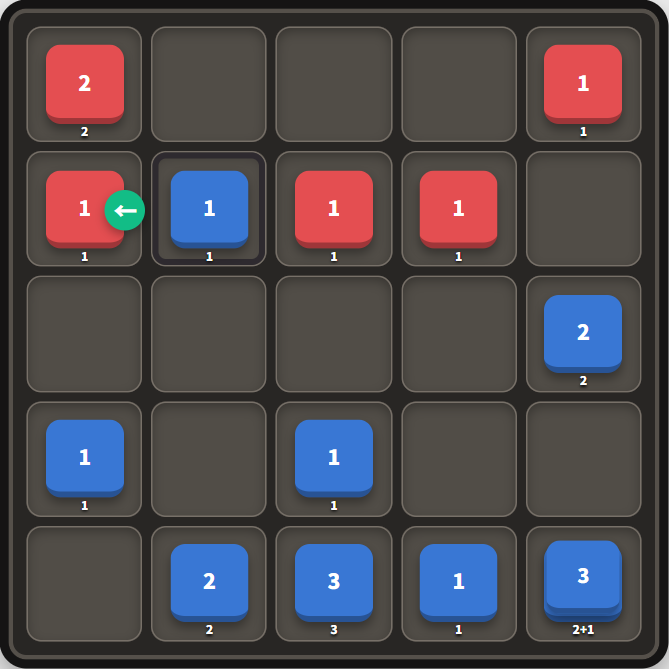
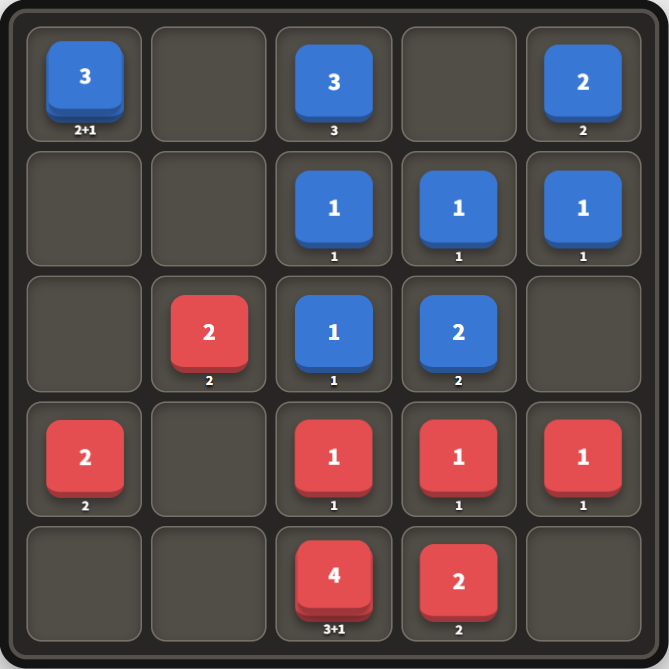
fix: refine multi-step game controls

diff --git a/assets/games.js b/assets/games.js
@@ -241,14 +241,14 @@
   games.santorini = {
     title: '聖托里尼 Santorini',
     credit: '設計者：Gordon Hamilton，出版社：Roxley Games',
-    firstName: '藍方', secondName: '橘方',
+    firstName: '紅方', secondName: '藍方',
     designer: 'Gordon Hamilton。', publisher: 'Roxley Games；本頁採用不含神力的基本規則。',
     intro: '雙方各控制兩名工人，每回合移動一名工人並在相鄰格建築。登上第三層或封鎖對手即可獲勝。',
     openings: [{ value: 'standard', label: '標準空盤' }], rolloutLimit: 70,
     animationDuration(action) { return action.type === 'place' ? 220 : action.previewed ? 240 : 420; },
     animationOptions() { return { spring: true }; },
     rules: [
-      { title: '初始設置', html: '<p>藍方先放置兩名工人，接著橘方放置兩名工人，再由藍方開始第一回合。</p>' },
+      { title: '初始設置', html: '<p>紅方先放置兩名工人，接著藍方放置兩名工人，再由紅方開始第一回合。</p>' },
       { title: '完整回合', html: '<ol><li>選自己一名工人。</li><li>往周圍八格移動一格，最多向上爬一層。</li><li>在移動後的工人周圍八格建築一層。</li></ol>' },
       { title: '勝利', html: '<p>工人移動到第三層立即勝利；或完成建築後使對手沒有任何合法移動，也立即勝利。</p>' }
     ],
@@ -294,7 +294,7 @@
     },
     outcome(state) { return state.winner; },
     describe(action, before) {
-      const actor = before.turn === 'first' ? '藍方' : '橘方';
+      const actor = before.turn === 'first' ? '紅方' : '藍方';
       if (action.type === 'place') return `${actor}將工人放在${posText(action)}。`;
       return `${actor}移動工人到${posText(action.move)}${action.build ? `，並在${posText(action.build)}建築` : '並登上第三層'}。`;
     },
@@ -310,7 +310,7 @@
         const height = state.board[r][c];
         const worker = visualWorkerAt({ r, c });
         const building = height ? `<span class="santorini-building">${Array.from({ length: height }, (_, level) => `<i class="santorini-level ${level === 3 ? 'dome' : ''}" data-anim-id="santorini-building-${r}-${c}-${level}" style="--level:${level}"></i>`).join('')}</span>` : '';
-        const piece = worker ? `<span class="piece worker santorini-worker ${worker.owner}" data-anim-id="${worker.id}"><span class="worker-head"></span><span class="worker-body"></span></span>` : '';
+        const piece = worker ? `<span class="piece worker santorini-worker ${worker.owner}" data-anim-id="${worker.id}" style="--height:${height}"><span class="worker-head"></span><span class="worker-body"></span></span>` : '';
         let classes = '';
         if (state.phase === 'move' && !ui.workerId && worker?.owner === state.turn && movableWorkers.has(worker.id)) classes = 'legal';
         if (ui.workerId && worker?.id === ui.workerId) classes = 'selected';
@@ -320,9 +320,9 @@
       }
       const outcome = this.outcome(state);
       let hint;
-      if (outcome) hint = `遊戲結束：${outcome === 'first' ? '藍方' : '橘方'}獲勝`;
-      else if (state.phase === 'placement') hint = `${state.turn === 'first' ? '藍方' : '橘方'}請放置工人`;
-      else if (!ui.workerId) hint = `${state.turn === 'first' ? '藍方' : '橘方'}請選擇工人`;
+      if (outcome) hint = `遊戲結束：${outcome === 'first' ? '紅方' : '藍方'}獲勝`;
+      else if (state.phase === 'placement') hint = `${state.turn === 'first' ? '紅方' : '藍方'}請放置工人`;
+      else if (!ui.workerId) hint = `${state.turn === 'first' ? '紅方' : '藍方'}請選擇工人`;
       else if (!ui.move) hint = '請選擇移動位置';
       else hint = '請選擇建築位置';
       const boardMode = state.phase === 'placement' ? 'placement' : ui.move ? 'build' : ui.workerId ? 'move' : 'worker';
@@ -425,19 +425,17 @@
     openings: [{ value: 'standard', label: '標準設置' }], rolloutLimit: 90,
     animationDuration(action) { return action.type === 'stop' ? 0 : action.to === 'out' ? 520 : 380; },
     animationOptions() { return { spring: true }; },
+    immediateAction(state, actions) {
+      return actions.find((action) => action.type === 'jump' && state.scores[state.turn] + (action.score || 0) >= 8);
+    },
     rolloutAction(state, actions) {
-      let winningJump = null;
-      let winningCount = 0;
-      let total = 0;
-      for (const action of actions) {
-        if (action.type === 'jump' && state.scores[state.turn] + (action.score || 0) >= 8) {
-          winningCount += 1;
-          if (Math.random() * winningCount < 1) winningJump = action;
-        }
-        total += zombieRolloutWeight(action);
-      }
+      const winningJump = this.immediateAction(state, actions);
       if (winningJump) return winningJump;
 
+      let total = 0;
+      for (const action of actions) {
+        total += zombieRolloutWeight(action);
+      }
       let target = Math.random() * total;
       for (const action of actions) {
         target -= zombieRolloutWeight(action);
@@ -454,10 +452,10 @@
       const board = Array.from({ length: 5 }, () => Array(5).fill(null));
       let nextId = 0;
       const piece = (owner, tier) => zombiePiece(owner, tier, `z${nextId++}`);
-      board[0][0] = piece('first', 2); board[0][2] = piece('first', 3); board[0][4] = piece('first', 2);
-      for (let c = 0; c < 5; c += 1) board[1][c] = piece('first', 1);
-      for (let c = 0; c < 5; c += 1) board[3][c] = piece('second', 1);
-      board[4][0] = piece('second', 2); board[4][2] = piece('second', 3); board[4][4] = piece('second', 2);
+      board[0][0] = piece('second', 2); board[0][2] = piece('second', 3); board[0][4] = piece('second', 2);
+      for (let c = 0; c < 5; c += 1) board[1][c] = piece('second', 1);
+      for (let c = 0; c < 5; c += 1) board[3][c] = piece('first', 1);
+      board[4][0] = piece('first', 2); board[4][2] = piece('first', 3); board[4][4] = piece('first', 2);
       return { turn: 'first', board, waiting: { first: [piece('first', 2), piece('first', 2)], second: [piece('second', 2), piece('second', 2)] }, scores: { first: 0, second: 0 }, continuing: null, path: [], winner: null, nextId };
     },
     actions(state) {
@@ -541,8 +539,9 @@
         const piece = state.board[r][c];
         const total = piece ? zombieTotal(piece) : '';
         const outActions = selected && samePos(selected, { r, c }) ? legal.filter((action) => action.type === 'jump' && action.to === 'out' && samePos(action.from, selected)) : [];
-        const outControls = outActions.map((action) => `<span class="zombie-out dr-${action.dir.dr} dc-${action.dir.dc}" role="button" tabindex="0" data-out data-dr="${action.dir.dr}" data-dc="${action.dir.dc}" aria-label="跳出棋盤">${action.dir.dr < 0 ? '↑' : action.dir.dr > 0 ? '↓' : action.dir.dc < 0 ? '←' : '→'}</span>`).join('');
-        const content = piece ? `<span class="piece zombie-piece ${piece.owner}" data-anim-id="${piece.id}">${piece.stack.map((tier, index) => `<i style="--stack:${index}">${index === piece.stack.length - 1 ? total : ''}</i>`).join('')}<span class="stack-list">${piece.stack.join('+')}</span></span>${outControls}` : '';
+        const outControls = outActions.map((action) => `<span class="zombie-out dr-${action.dir.dr} dc-${action.dir.dc}" role="button" tabindex="0" data-out data-from-r="${r}" data-from-c="${c}" data-dr="${action.dir.dr}" data-dc="${action.dir.dc}" aria-label="跳出棋盤">${action.dir.dr < 0 ? '↑' : action.dir.dr > 0 ? '↓' : action.dir.dc < 0 ? '←' : '→'}</span>`).join('');
+        const stopControl = state.continuing && samePos(selected, { r, c }) ? '<span class="zombie-stop" role="button" tabindex="0" data-stop aria-label="停止連跳">■</span>' : '';
+        const content = piece ? `<span class="piece zombie-piece ${piece.owner}" data-anim-id="${piece.id}">${piece.stack.map((tier, index) => `<i style="--stack:${index}">${index === piece.stack.length - 1 ? total : ''}</i>`).join('')}<span class="stack-list">${piece.stack.join('+')}</span>${stopControl}</span>${outControls}` : '';
         const classes = samePos(selected, { r, c }) ? 'selected' : targets.has(key(r, c)) ? 'legal' : '';
         board += cellButton(r, c, classes, content);
       }
@@ -553,18 +552,22 @@
         }).join('');
         return `<section class="choice-zone zombie-wait ${state.turn === owner ? 'active' : ''}" aria-label="${label}陰間"><div>${groups}</div></section>`;
       };
-      const stop = state.continuing ? '<button class="tray-btn selected" data-stop>停止連跳</button>' : '';
-      const tray = `<div class="dual-choice">${waitingZone('first', '紅方')}${waitingZone('second', '藍方')}</div>${stop}`;
+      const tray = `<div class="dual-choice">${waitingZone('first', '紅方')}${waitingZone('second', '藍方')}</div>`;
       const outcome = this.outcome(state);
       let hint = outcome ? `遊戲結束：${outcome === 'first' ? '紅方' : '藍方'}獲勝` : state.continuing ? '可繼續跳躍，或選擇停止連跳' : `${state.turn === 'first' ? '紅方' : '藍方'}請選擇復活、移動或跳躍`;
       return { cols: 5, rows: 5, boardClass: 'zombie-board', board, tray, hint, compactScores: true, firstScore: scoreInline(`${state.scores.first} / 8`, '分'), secondScore: scoreInline(`${state.scores.second} / 8`, '分') };
     },
     bind(state, ui, controller, board, tray) {
       tray.querySelectorAll(`[data-wait][data-owner="${state.turn}"]`).forEach((button) => button.addEventListener('click', () => controller.setUi({ waitTier: Number(button.dataset.wait), selectedPos: null })));
-      tray.querySelector('[data-stop]')?.addEventListener('click', () => controller.commit({ type: 'stop' }));
+      board.querySelector('[data-stop]')?.addEventListener('click', (event) => {
+        event.stopPropagation();
+        if (controller.isHumanTurn()) controller.commit({ type: 'stop' });
+      });
       board.querySelectorAll('[data-out]').forEach((button) => button.addEventListener('click', (event) => {
         event.stopPropagation();
-        const action = this.actions(state).find((item) => item.type === 'jump' && item.to === 'out' && item.dir.dr === Number(button.dataset.dr) && item.dir.dc === Number(button.dataset.dc));
+        if (!controller.isHumanTurn()) return;
+        const from = { r: Number(button.dataset.fromR), c: Number(button.dataset.fromC) };
+        const action = this.actions(state).find((item) => item.type === 'jump' && item.to === 'out' && samePos(item.from, from) && item.dir.dr === Number(button.dataset.dr) && item.dir.dc === Number(button.dataset.dc));
         if (action) controller.commit(action);
       }));
       board.querySelectorAll('[data-r]').forEach((button) => button.addEventListener('click', () => {
@@ -793,7 +796,7 @@
       for (let r = 0; r < 4; r += 1) for (let c = 0; c < 4; c += 1) {
         const first = samePos(state.positions.first, { r, c });
         const second = samePos(state.positions.second, { r, c });
-        const piece = first ? '<span class="piece first" data-anim-id="fmg-first">R</span>' : second ? '<span class="piece second" data-anim-id="fmg-second">B</span>' : '';
+        const piece = first ? '<span class="piece fmg-piece first" data-anim-id="fmg-first" aria-label="紅方棋子"></span>' : second ? '<span class="piece fmg-piece second" data-anim-id="fmg-second" aria-label="藍方棋子"></span>' : '';
         const tile = state.tiles[r][c] === 'SR' || state.tiles[r][c] === 'SB' ? 'S' : state.tiles[r][c];
         const classes = `${state.covered[r][c] ? 'removed-space' : ''} ${legal.has(key(r, c)) ? 'legal' : ''}`;
         board += cellButton(r, c, classes, state.covered[r][c] ? '' : `<b>${tile}</b>${piece}`);

diff --git a/assets/game-shell.css b/assets/game-shell.css
@@ -232,8 +232,9 @@ button { cursor: pointer; }
 .santorini-level { position: absolute; width: calc(92% - var(--level) * 10%); height: calc(92% - var(--level) * 10%); transform: translateY(calc(var(--level) * -5px)); border-radius: 8px; background: #f4f7f8; border-bottom: 4px solid #b5c9d1; box-shadow: 0 3px 5px rgba(37,70,83,.18); }
 .santorini-level.dome { width: 52%; height: 52%; border-radius: 50%; background: #397db7; border-bottom-color: #23577e; }
 .piece.santorini-worker { width: 52%; border-radius: 12px; border: 2px solid #fff; overflow: visible; box-shadow: 0 5px 9px rgba(0,0,0,.28); }
-.piece.santorini-worker.first { background: #19b8d2; }
-.piece.santorini-worker.second { background: #f0a13a; }
+.piece.santorini-worker { margin-top: calc(var(--height, 0) * -7px); }
+.piece.santorini-worker.first { background: var(--first); }
+.piece.santorini-worker.second { background: var(--second); }
 .worker-head { position: absolute; top: 12%; width: 31%; aspect-ratio: 1; border-radius: 50%; background: rgba(255,255,255,.9); }
 .worker-body { position: absolute; bottom: 13%; width: 52%; height: 39%; border-radius: 50% 50% 35% 35%; background: rgba(255,255,255,.9); }
 
@@ -246,7 +247,9 @@ button { cursor: pointer; }
 .zombie-piece.first i { background: #e44e51; }
 .zombie-piece.second i { background: #3977d4; }
 .zombie-piece .stack-list { position: absolute; bottom: -9px; z-index: 10; color: #fff; font-size: 8px; text-shadow: 0 1px 2px #000; }
-.zombie-out { position: absolute; z-index: 30; width: 27px; height: 27px; display: grid; place-items: center; border-radius: 50%; background: #12bd86; color: #fff; box-shadow: 0 3px 7px rgba(0,0,0,.35); cursor: pointer; }
+.zombie-out, .zombie-stop { position: absolute; z-index: 30; width: 27px; height: 27px; display: grid; place-items: center; border-radius: 50%; color: #fff; box-shadow: 0 3px 7px rgba(0,0,0,.35); cursor: pointer; }
+.zombie-out { background: #12bd86; }
+.zombie-stop { top: -8px; right: -8px; background: #f0a83a; font-size: 10px; }
 .zombie-out.dr--1 { top: -31px; left: calc(50% - 13px); }
 .zombie-out.dr-1 { bottom: -31px; left: calc(50% - 13px); }
 .zombie-out.dc--1 { left: -31px; top: calc(50% - 13px); }
@@ -257,6 +260,12 @@ button { cursor: pointer; }
 .zombie-wait-piece .piece-count { position: absolute; top: -7px; right: -7px; min-width: 21px; height: 21px; padding: 0 5px; display: grid; place-items: center; border: 2px solid #fff; border-radius: 11px; background: #29262b; color: #fff; font-size: 12px; font-weight: 850; line-height: 1; box-shadow: 0 2px 5px rgba(0,0,0,.24); }
 .zombie-wait:first-child .zombie-wait-piece { background: #e44e51; }
 .zombie-wait:last-child .zombie-wait-piece { background: #3977d4; }
+
+/* Four Moves: hollow rings keep the current tile number visible. */
+.four-moves-board .cell > b { position: relative; z-index: 2; }
+.piece.fmg-piece { width: 64%; background: transparent; border: clamp(5px, 1.4vw, 8px) solid currentColor; box-shadow: 0 4px 7px rgba(0,0,0,.18); }
+.piece.fmg-piece.first { color: var(--first); background: transparent; }
+.piece.fmg-piece.second { color: var(--second); background: transparent; }
 
 /* Torii 1.0 supplies with active-side highlight and code-native pieces. */
 .torii-board { background: #a8c98c; border-color: #5f7950; }

diff --git a/assets/game-core.js b/assets/game-core.js
@@ -131,6 +131,19 @@
   }
 
   function runMcts(game, state, iterations, tokenIsCurrent) {
+    const immediate = game.immediateAction?.(state, game.actions(state));
+    if (immediate) {
+      const outcome = game.outcome(game.apply(state, immediate));
+      if (outcome === 'first' || outcome === 'second') return Promise.resolve({
+        action: clone(immediate),
+        firstRate: outcome === 'first' ? 1 : 0,
+        firstWinRate: outcome === 'first' ? 1 : 0,
+        secondWinRate: outcome === 'second' ? 1 : 0,
+        drawRate: 0,
+        visits: 1,
+        iterations: 1
+      });
+    }
     const search = new MctsSearch(game, state);
     const total = Math.max(1, Number(iterations) || 1);
     return new Promise((resolve) => {

diff --git a/games/four-color-chess/game.html b/games/four-color-chess/game.html
@@ -1,1 +1,1 @@
-<!doctype html><html lang="zh-Hant"><head><meta charset="utf-8"><meta name="viewport" content="width=device-width,initial-scale=1,viewport-fit=cover"><meta name="theme-color" content="#f4f1e8"><title>四色棋 Four Color Chess</title><link rel="stylesheet" href="../../assets/game-shell.css"></head><body data-game="four-color-chess"><div id="app"></div><script src="../../assets/game-core.js"></script><script src="../../assets/games.js"></script></body></html>
+<!doctype html><html lang="zh-Hant"><head><meta charset="utf-8"><meta name="viewport" content="width=device-width,initial-scale=1,viewport-fit=cover"><meta name="theme-color" content="#f4f1e8"><title>四色棋 Four Color Chess</title><link rel="stylesheet" href="../../assets/game-shell.css?v=20260715a"></head><body data-game="four-color-chess"><div id="app"></div><script src="../../assets/game-core.js?v=20260715a"></script><script src="../../assets/games.js?v=20260715a"></script></body></html>

diff --git a/games/four-moves-chess/game.html b/games/four-moves-chess/game.html
@@ -1,1 +1,1 @@
-<!doctype html><html lang="zh-Hant"><head><meta charset="utf-8"><meta name="viewport" content="width=device-width,initial-scale=1,viewport-fit=cover"><meta name="theme-color" content="#f4f1e8"><title>四步棋 Four Moves Chess</title><link rel="stylesheet" href="../../assets/game-shell.css"></head><body data-game="four-moves-chess"><div id="app"></div><script src="../../assets/game-core.js"></script><script src="../../assets/games.js"></script></body></html>
+<!doctype html><html lang="zh-Hant"><head><meta charset="utf-8"><meta name="viewport" content="width=device-width,initial-scale=1,viewport-fit=cover"><meta name="theme-color" content="#f4f1e8"><title>四步棋 Four Moves Chess</title><link rel="stylesheet" href="../../assets/game-shell.css?v=20260715a"></head><body data-game="four-moves-chess"><div id="app"></div><script src="../../assets/game-core.js?v=20260715a"></script><script src="../../assets/games.js?v=20260715a"></script></body></html>

diff --git a/games/mijnlieff/game.html b/games/mijnlieff/game.html
@@ -1,1 +1,1 @@
-<!doctype html><html lang="zh-Hant"><head><meta charset="utf-8"><meta name="viewport" content="width=device-width,initial-scale=1,viewport-fit=cover"><meta name="theme-color" content="#f4f1e8"><title>花園棋 Mijnlieff</title><link rel="stylesheet" href="../../assets/game-shell.css"></head><body data-game="mijnlieff"><div id="app"></div><script src="../../assets/game-core.js"></script><script src="../../assets/games.js"></script></body></html>
+<!doctype html><html lang="zh-Hant"><head><meta charset="utf-8"><meta name="viewport" content="width=device-width,initial-scale=1,viewport-fit=cover"><meta name="theme-color" content="#f4f1e8"><title>花園棋 Mijnlieff</title><link rel="stylesheet" href="../../assets/game-shell.css?v=20260715a"></head><body data-game="mijnlieff"><div id="app"></div><script src="../../assets/game-core.js?v=20260715a"></script><script src="../../assets/games.js?v=20260715a"></script></body></html>

diff --git a/games/santorini/game.html b/games/santorini/game.html
@@ -1,1 +1,1 @@
-<!doctype html><html lang="zh-Hant"><head><meta charset="utf-8"><meta name="viewport" content="width=device-width,initial-scale=1,viewport-fit=cover"><meta name="theme-color" content="#f4f1e8"><title>聖托里尼 Santorini</title><link rel="stylesheet" href="../../assets/game-shell.css"></head><body data-game="santorini"><div id="app"></div><script src="../../assets/game-core.js"></script><script src="../../assets/games.js"></script></body></html>
+<!doctype html><html lang="zh-Hant"><head><meta charset="utf-8"><meta name="viewport" content="width=device-width,initial-scale=1,viewport-fit=cover"><meta name="theme-color" content="#f4f1e8"><title>聖托里尼 Santorini</title><link rel="stylesheet" href="../../assets/game-shell.css?v=20260715a"></head><body data-game="santorini"><div id="app"></div><script src="../../assets/game-core.js?v=20260715a"></script><script src="../../assets/games.js?v=20260715a"></script></body></html>

diff --git a/games/torii/game.html b/games/torii/game.html
@@ -1,1 +1,1 @@
-<!doctype html><html lang="zh-Hant"><head><meta charset="utf-8"><meta name="viewport" content="width=device-width,initial-scale=1,viewport-fit=cover"><meta name="theme-color" content="#f4f1e8"><title>跳躍森靈 Torii</title><link rel="stylesheet" href="../../assets/game-shell.css"></head><body data-game="torii"><div id="app"></div><script src="../../assets/game-core.js"></script><script src="../../assets/games.js"></script></body></html>
+<!doctype html><html lang="zh-Hant"><head><meta charset="utf-8"><meta name="viewport" content="width=device-width,initial-scale=1,viewport-fit=cover"><meta name="theme-color" content="#f4f1e8"><title>跳躍森靈 Torii</title><link rel="stylesheet" href="../../assets/game-shell.css?v=20260715a"></head><body data-game="torii"><div id="app"></div><script src="../../assets/game-core.js?v=20260715a"></script><script src="../../assets/games.js?v=20260715a"></script></body></html>

diff --git a/games/zombie-jump/game.html b/games/zombie-jump/game.html
@@ -1,1 +1,1 @@
-<!doctype html><html lang="zh-Hant"><head><meta charset="utf-8"><meta name="viewport" content="width=device-width,initial-scale=1,viewport-fit=cover"><meta name="theme-color" content="#f4f1e8"><title>殭屍棋 JUMP</title><link rel="stylesheet" href="../../assets/game-shell.css"></head><body data-game="zombie-jump"><div id="app"></div><script src="../../assets/game-core.js"></script><script src="../../assets/games.js?v=zombie-mcts-1"></script></body></html>
+<!doctype html><html lang="zh-Hant"><head><meta charset="utf-8"><meta name="viewport" content="width=device-width,initial-scale=1,viewport-fit=cover"><meta name="theme-color" content="#f4f1e8"><title>殭屍棋 JUMP</title><link rel="stylesheet" href="../../assets/game-shell.css?v=20260715a"></head><body data-game="zombie-jump"><div id="app"></div><script src="../../assets/game-core.js?v=20260715a"></script><script src="../../assets/games.js?v=20260715a"></script></body></html>

diff --git a/index.html b/index.html
@@ -31,7 +31,7 @@
     document.querySelectorAll('[data-preview]').forEach((board) => {
       const image = document.createElement('img');
       image.className = 'game-preview-image';
-      image.src = `assets/lobby-boards/${previewImages[board.dataset.preview] || board.dataset.preview}.png`;
+      image.src = `assets/lobby-boards/${previewImages[board.dataset.preview] || board.dataset.preview}.png?v=20260715a`;
       image.alt = `${board.dataset.preview} 實際遊戲中局棋盤`;
       board.replaceWith(image);
     });

diff --git a/GAME_IMPLEMENTATION_SOP.md b/GAME_IMPLEMENTATION_SOP.md
@@ -111,9 +111,9 @@ AI action 應盡量代表一個完整規則行動。例如聖托里尼的 action
 - 花園棋：深、淺雙方剩餘棋子始終並排，以區塊與棋子顏色區分，不顯示「深色剩餘／淺色剩餘」文字。尚未選棋前就高光當前可落格；棋子外形是方牌，符號區分十字、交叉、內圈、外圈，實心圓與空心圓需比其他符號更大。勝率條採深色／平手／淺色三段，分數與「分」同列顯示；回合提示框也採深淺配色。
 - 蒐靈祭：一般空格不加合法格高光；只有玩家必須從多條得分線中選擇時，才顯示必要的選擇提示。雙方各以三個空心圓計分，得分後依序填實，不顯示數字文字。
 - 四色棋：棋子填色代表紅、藍、黃、綠種類；黑方使用黑框、白方使用白框。焦點外框與玩家外框是不同視覺層；不顯示頂部總合法步分數區，也不保留空白高度；勝率條與回合提示框採深、淺配色。
-- 四步棋：不顯示步數選擇器；S 格直接合併高光 1 到 4 步可達終點。同一終點若有多條路徑，依 1.0 採最短步數。動畫依實際路徑每格 250ms，完成後起點格消失；移除合法目的地分數列與額外選擇列。
-- 聖托里尼：放置工人時不高光；移動階段尚未選取時只高光當回合可移動的工人。選定移動格後，工人必須先以穩定 ID 移到該格，畫面才進入建築選擇；剛離開的原格可合法建築。棋盤使用白灰底、淡草綠格、藍色外圍，並固定為容器滿寬的正方形；移動高光用黃色，建築高光用珊瑚色。移除工人數量列與額外選擇列，只保留一個提示框。建築層由下往上出現，第三層穹頂沿用 2.0 配色。
-- 殭屍棋：紅、藍雙方陰間始終並排，以顏色區分而不顯示陣營文字。陰間棋為正方形，同等級有兩枚以上時只顯示一枚並加數量小標；陰間棋保留穩定 ID，復活時直接動畫到棋盤。選陰間棋後才標亮復活格，選場上棋後才標亮移動／跳躍格；點擊己方目標棋時先判斷合法堆疊，再決定是否切換選取。分數與「分」同列顯示。可跳出時在所選棋子的棋盤邊緣顯示方向按鈕。
+- 四步棋：不顯示步數選擇器；S 格直接合併高光 1 到 4 步可達終點。同一終點若有多條路徑，依 1.0 採最短步數。棋子使用紅、藍空心圓環，讓所在格數字保持可讀。動畫依實際路徑每格 250ms，完成後起點格消失；移除合法目的地分數列與額外選擇列。
+- 聖托里尼：放置工人時不高光；移動階段尚未選取時只高光當回合可移動的工人。選定移動格後，工人必須先以穩定 ID 移到該格，畫面才進入建築選擇；剛離開的原格可合法建築。棋盤使用白灰底、淡草綠格、藍色外圍，並固定為容器滿寬的正方形；移動高光用黃色，建築高光用珊瑚色。工人依先後手使用紅、藍色，並隨所在建築高度逐層向上位移。移除工人數量列與額外選擇列，只保留一個提示框。建築層由下往上出現，第三層穹頂沿用 2.0 配色。
+- 殭屍棋：紅、藍雙方陰間始終並排，以顏色區分而不顯示陣營文字；紅方初始在棋盤下方。陰間棋為正方形，同等級有兩枚以上時只顯示一枚並加數量小標；陰間棋保留穩定 ID，復活時直接動畫到棋盤。選陰間棋後才標亮復活格，選場上棋後才標亮移動／跳躍格；點擊己方目標棋時先判斷合法堆疊，再決定是否切換選取。分數與「分」同列顯示。可跳出時在所選棋子的棋盤邊緣顯示方向按鈕，按鈕必須綁定起點與方向；停止連跳按鈕顯示在目前連跳棋子上。
 - 跳躍森靈：雙方 1、2、3 板塊始終並排，不顯示陣營文字；已使用、可使用狀態在雙方非回合時仍清楚可見，換手時只高光當前玩家區域。先選板塊，再逐步選路徑，每選一步森靈就以 200ms 移到該格，最後一步完成後才提交行動，但不可再次播放同一步動畫。跳過對手森靈所在行或列仍只算一步；行動片 1 的 action 必須只有一個落點且只放一枚信徒。信徒與鳥居以各自圖示加數量上限並排顯示。信徒只在真正新增時播放一次進場動畫，重新渲染不可重播。
 
 ### 5.3 首頁遊戲圖片
@@ -139,6 +139,8 @@ state.turn
 - 人類、隨機電腦與 MCTS 電腦的每個可行動狀態都必須排 MCTS 勝率評估；隨機只代表選步方式，不代表勝率可以省略。
 - 搜尋必須分批執行並讓出主執行緒，避免手機點擊延遲。
 - 終局時勝方固定 100%，敗方固定 0%；和局 50:50。
+- 遊戲可提供 `immediateAction(state, actions)`；若套用後已產生勝方，共用 MCTS 直接回傳該 action 與 100% 終局率，不再消耗迭代。
+- 多階段 action 可保留同一 `state.turn`，UCT 會在同玩家節點繼續最大化。聖托里尼把移動與建築合為完整回合 action；跳躍森靈為了逐步路徑與鳥居位置選擇，保留板塊、完整路徑、建鳥居三類 action。
 
 遊戲可選擇提供：
 